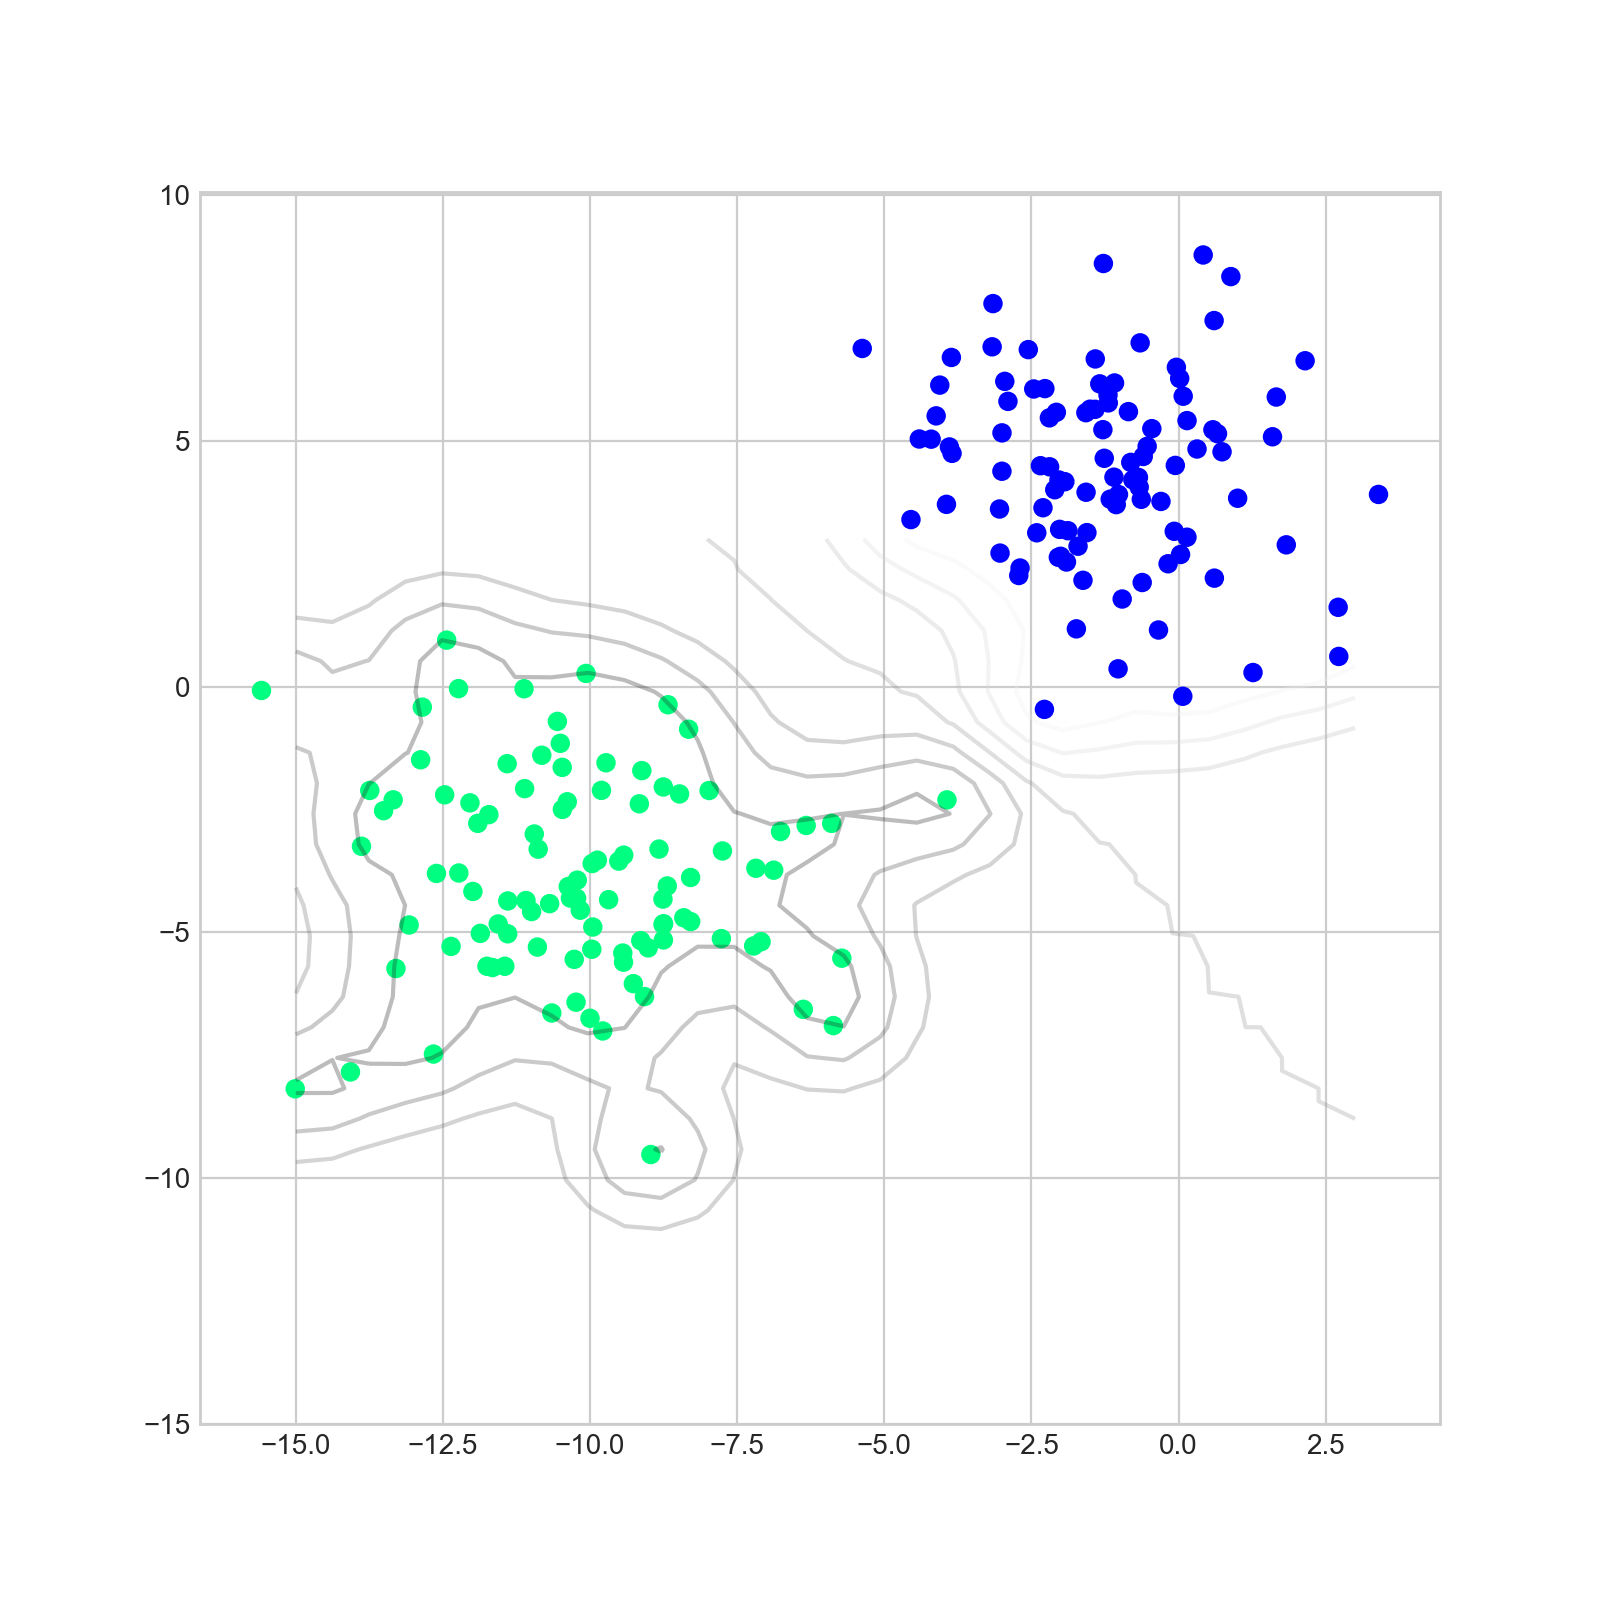
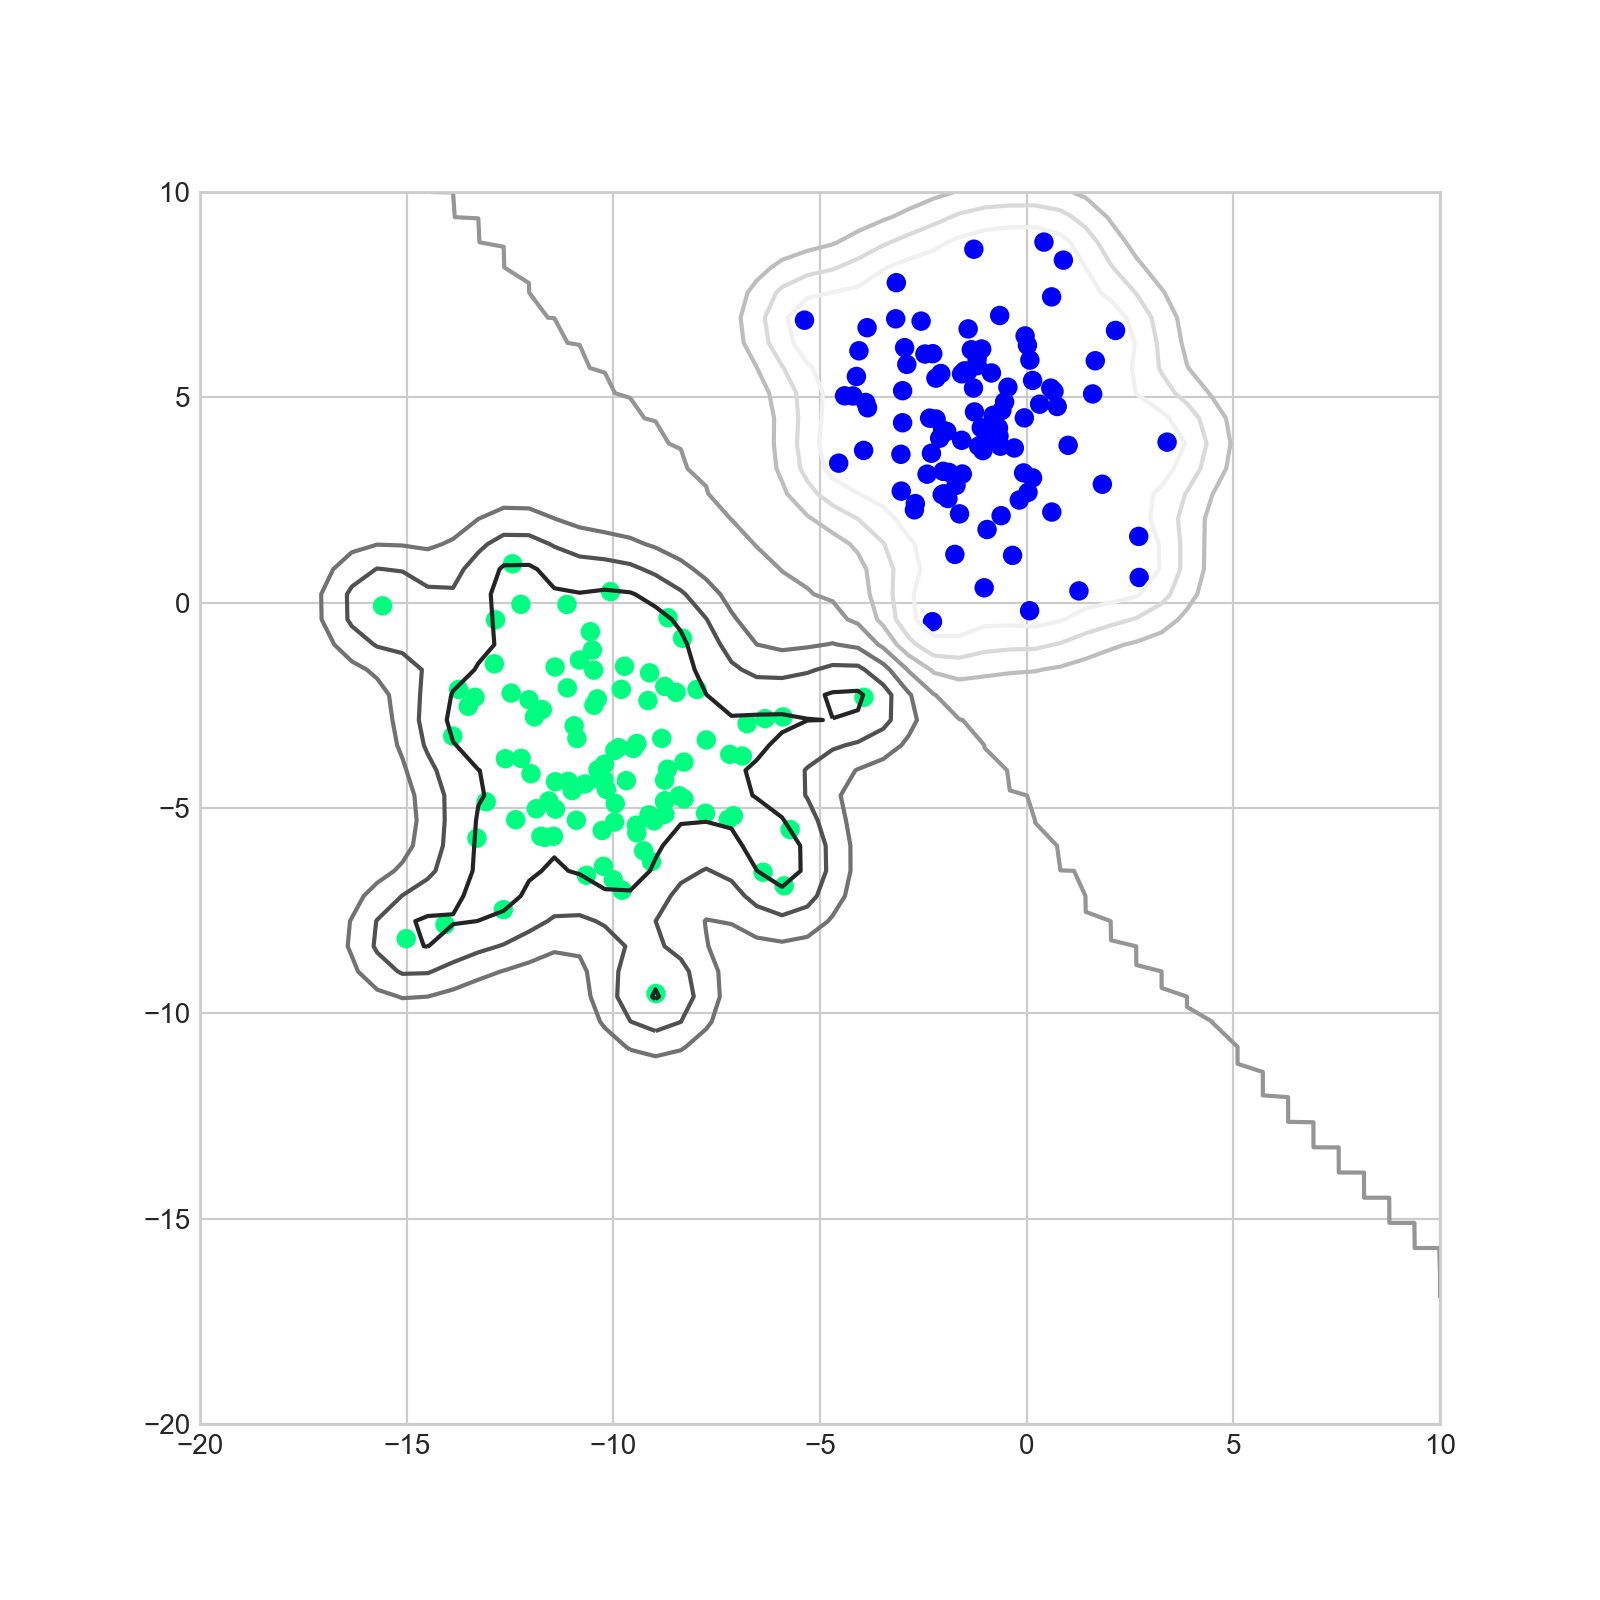
changes in the plot's alpha channel

diff --git a/ass_1_2/01_svm_rbf.py b/ass_1_2/01_svm_rbf.py
@@ -186,7 +186,6 @@ if __name__ == '__main__':
     # res = svm.discriminant(a, b[0], X, y, [-1., 0.])
     # print(res)
 
-
     # LINEAR
     fig = plt.figure(figsize=(8, 8))
     ax = plt.axes(projection='3d')
@@ -215,6 +214,6 @@ if __name__ == '__main__':
     fig = plt.figure(figsize=(8, 8))
     ax = plt.axes()
     A, B, C = rbf.calc_contour(X, y)
-    ax.contour(A, B, C, alpha=0.3)
+    ax.contour(A, B, C)
     ax.scatter(X[:, 0], X[:, 1], c=y_orig, cmap='winter')
     plt.show()
